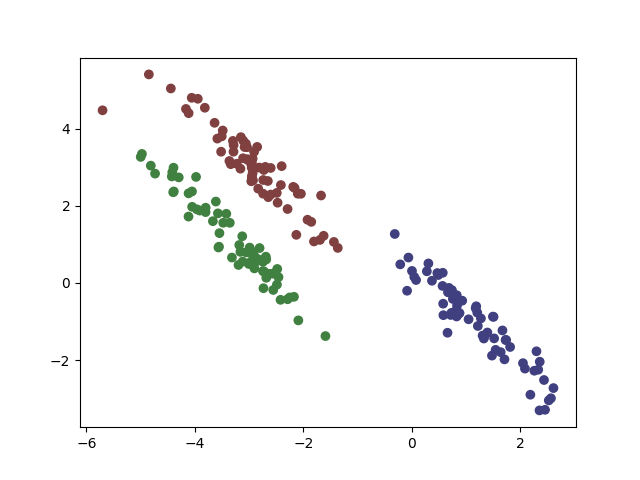
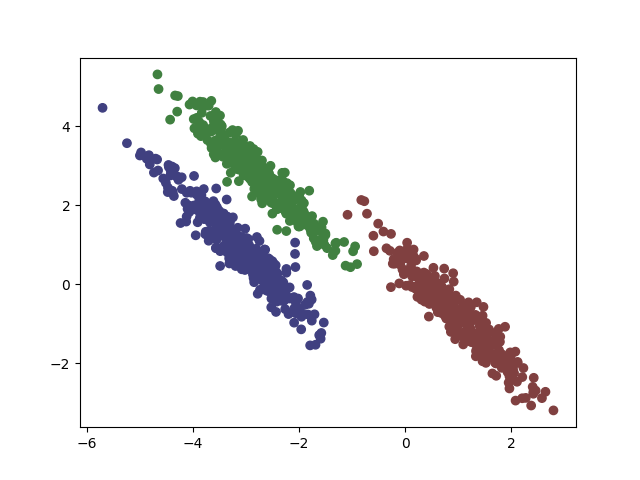
opti + opti ideas

diff --git a/main.py b/main.py
@@ -3,7 +3,17 @@ import numpy as np
 from utils import get_datasets, cluster_screenshot, generate_colors
 from union_find import process_propagation
 from sklearn.neighbors import NearestNeighbors
+import numba as nb
 
+'''
+    Optimisation ideas:
+        instead of making nearest neighbors with all points with a bad custom_distance methods,
+        we can make unique_label_count nearest neighbors with all point from the same label with all other points
+
+        make a fast version of NNHC wnich use the centroid of each label group as a point to compare with other centroid
+'''
+
+@nb.njit(nopython=True)
 def custom_distance(x, y):
     '''
         /!\ this methods take to much time to compute, it's the last thing to optimize to make a good clusturing algorithm
@@ -11,7 +21,7 @@ def custom_distance(x, y):
     # if same label, distance is infinite because we don't want to merge points with same label
     if x[-1] == y[-1]:
         return np.inf
-    return np.linalg.norm(x[:-2] - y[:-2])
+    return np.linalg.norm(x[:-1] - y[:-1])
 
     '''
         This is fast but we can't compare labels...
@@ -34,9 +44,10 @@ class NNHC:
             '''
                 Here is the problem, check at custom_distance method
             '''
+            x_without_ids = np.delete(x, -2, axis=1)
             checkpoint_time = time.time()
-            neigh = NearestNeighbors(n_neighbors=1, algorithm="ball_tree", metric=custom_distance).fit(x)
-            distances, indices = neigh.kneighbors(x, return_distance=True)
+            neigh = NearestNeighbors(n_neighbors=1, algorithm="ball_tree", metric=custom_distance).fit(x_without_ids)
+            distances, indices = neigh.kneighbors(x_without_ids, return_distance=True)
             print("NearestNeighbors time: ", time.time() - checkpoint_time)
 
             indices = indices.reshape(-1)
@@ -103,7 +114,6 @@ class NNHC:
                 break
         
         y = x[:, -1]
-        # all different labels
         all_differents_labels = np.unique(y)
         # normalize label using indices (liek 0, 1, 2, 3, 4, ...)
         for i, label in enumerate(all_differents_labels):
@@ -113,10 +123,12 @@ class NNHC:
         return self
 
 if __name__ == "__main__":
-    datasets = get_datasets(n_samples=200, random_seed=42)
+    datasets = get_datasets(n_samples=10000, random_seed=42)
     for dataset_name, (dataset_points, clusters_count) in datasets.items():
+        print(f"Clustering {dataset_name} with {clusters_count} clusters")
         nnhc = NNHC(n_clusters=clusters_count)
         nnhc.fit(x=dataset_points)
         color_map = generate_colors(len(nnhc.labels))
         cluster_screenshot(dataset_points, nnhc.y, path=f"outputs/{dataset_name}.png", color_map=color_map, show=False)
+        print("")
         
